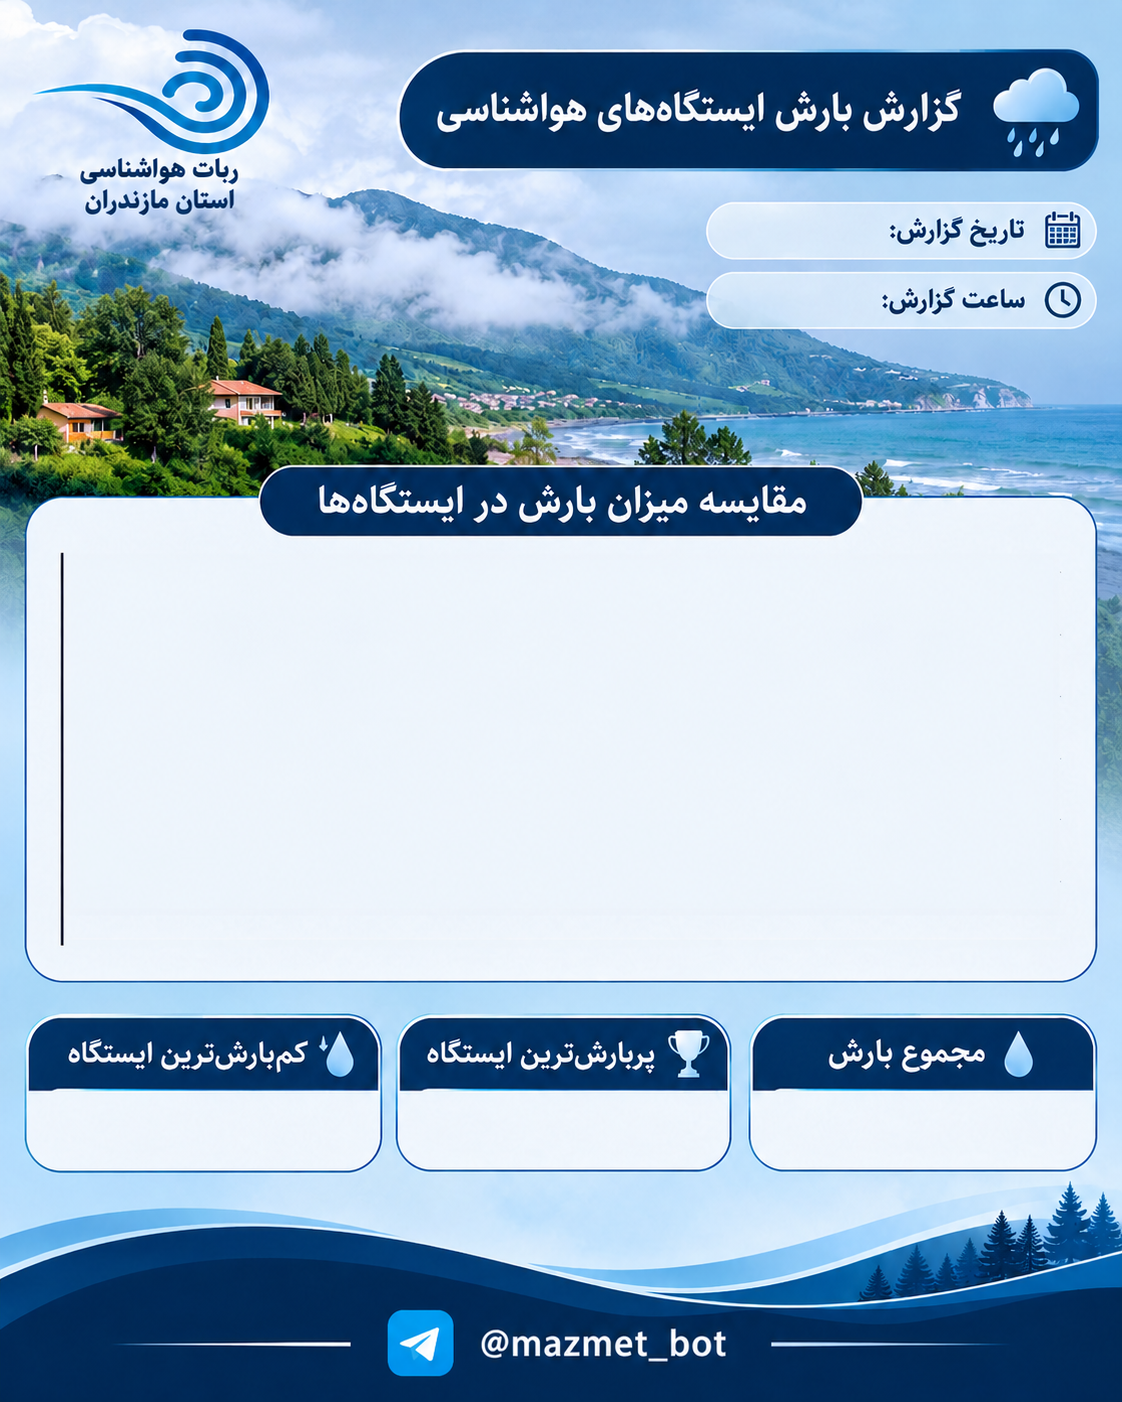
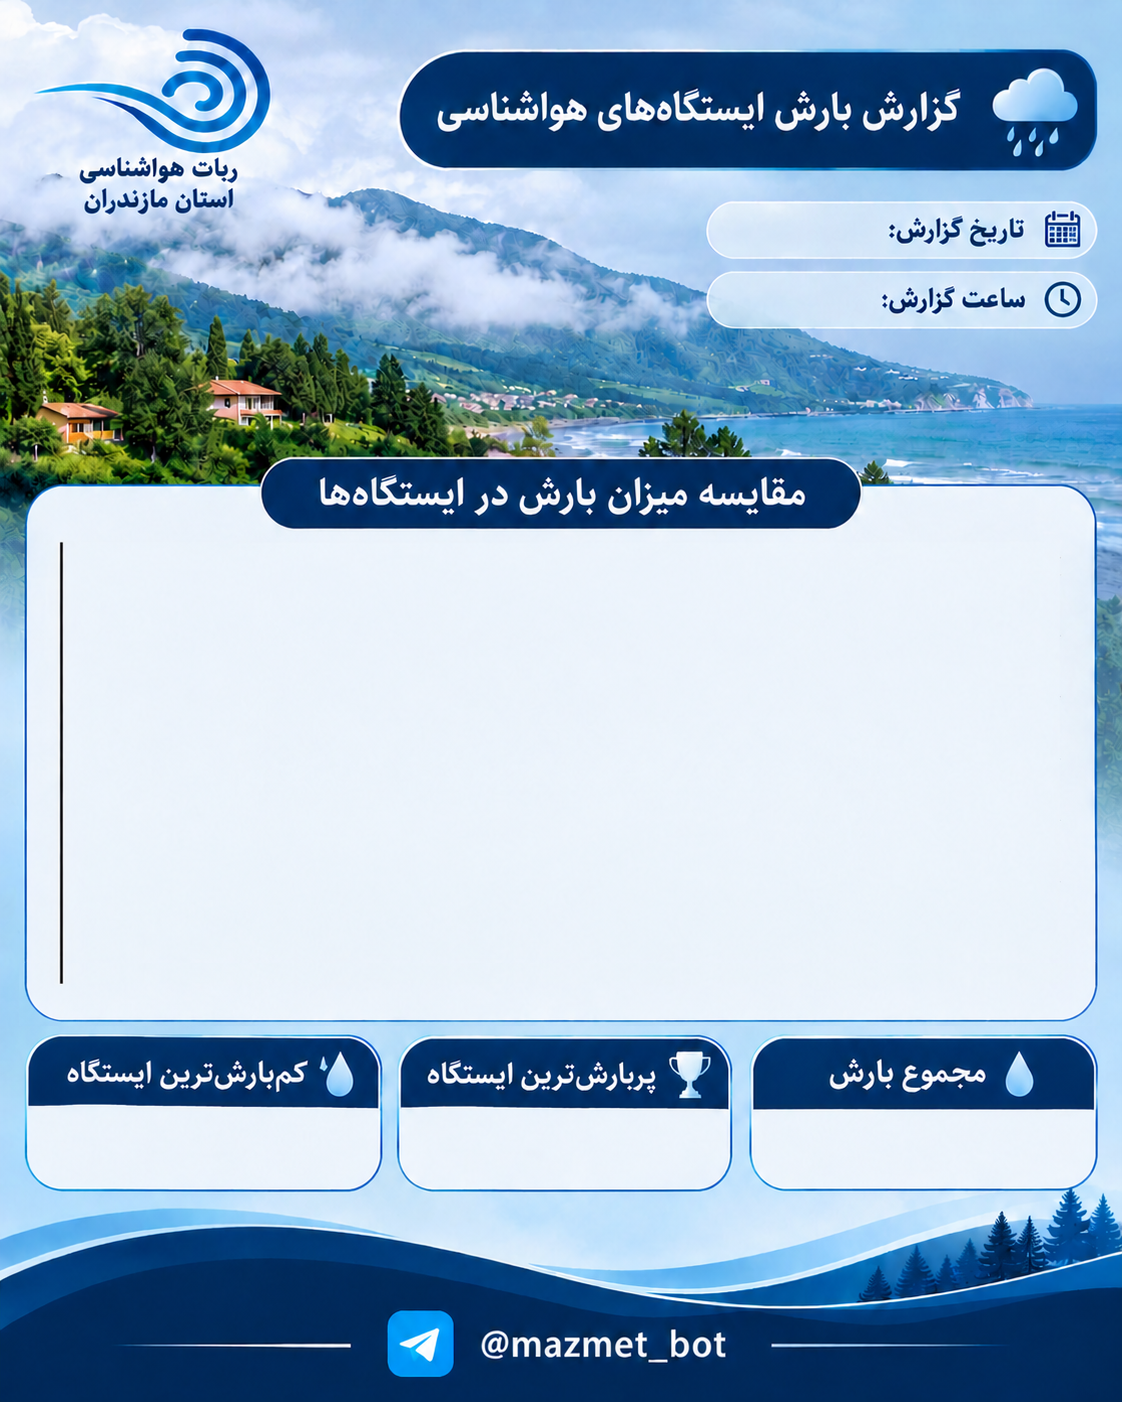
qweqw

diff --git a/rain.py b/rain.py
@@ -4,8 +4,7 @@ import math
 from PIL import Image, ImageDraw, ImageFont
 import arabic_reshaper
 from bidi.algorithm import get_display
-import datetime
-from datetime import timedelta
+import jdatetime
 
 BASE_DIR = os.path.dirname(os.path.abspath(__file__))
 
@@ -26,14 +25,23 @@ WHITE = "#FFFFFF"
 # 2. اطلاعات گزارش
 # ==================================================
 def do_rain(stations):
-    d = datetime.datetime.now()
-    d += timedelta(hours=3, minutes=30)
-    d = d.strftime("%H:%M")
-    date = f"{d.year}/{d.month}/{d.day}"
-    time = f"{d.hour}:{d.minute}"
+    # ==================================================
+    # 1. تنظیمات اولیه
+    # ==================================================
 
-    # این لیست را میتوانی مستقیماً از دیتابیس یا API پر کنی.
+    BASE_DIR = os.path.dirname(os.path.abspath(__file__))
 
+    TEMPLATE_PATH = os.path.join(BASE_DIR, "template.png")
+    FONT_PATH = os.path.join(BASE_DIR, "Vazirmatn-RD-Bold.ttf")
+    OUTPUT_PATH = os.path.join(BASE_DIR, "report.png")
+
+    MAX_STATIONS = 25
+
+    # رنگها
+    BLUE = "#0876B9"
+    DARK_BLUE = "#123653"
+    GRID_COLOR = "#B7C9DA"
+    WHITE = "#FFFFFF"
 
     # ==================================================
     # 3. بررسی دادهها
@@ -130,9 +138,14 @@ def do_rain(stations):
     # 6. درج تاریخ و ساعت
     # ==================================================
 
+    now = jdatetime.datetime.now()
+
+    date = fa_num(now.strftime("%Y/%m/%d"))
+    time = fa_num(now.strftime("%H:%M"))
+
     draw_centered_text(
         draw,
-        (800, 231),
+        (790, 231),
         fa(date),
         small_font,
         DARK_BLUE
@@ -194,22 +207,22 @@ def do_rain(stations):
     # تعیین اندازه فونت بر اساس تعداد ایستگاهها
     if count <= 6:
 
-        station_font = load_font(22)
+        station_font = load_font(21)
         value_font = load_font(23)
 
     elif count <= 12:
 
-        station_font = load_font(19)
+        station_font = load_font(17)
         value_font = load_font(18)
 
     elif count <= 18:
 
-        station_font = load_font(16)
+        station_font = load_font(14)
         value_font = load_font(15)
 
     else:
 
-        station_font = load_font(14)
+        station_font = load_font(12)
         value_font = load_font(12)
 
 
@@ -373,7 +386,7 @@ def do_rain(stations):
 
     draw_centered_text(
         draw,
-        (200, 1110),
+        (200, 1135),
         fa(driest["name"]),
         load_font(27),
         DARK_BLUE
@@ -381,7 +394,7 @@ def do_rain(stations):
 
     draw_centered_text(
         draw,
-        (200, 1145),
+        (200, 1170),
         f"{fa_num(driest['rain'])} mm",
         small_font,
         BLUE
@@ -394,7 +407,7 @@ def do_rain(stations):
 
     draw_centered_text(
         draw,
-        (555, 1110),
+        (555, 1135),
         fa(wettest["name"]),
         load_font(27),
         DARK_BLUE
@@ -402,7 +415,7 @@ def do_rain(stations):
 
     draw_centered_text(
         draw,
-        (555, 1145),
+        (555, 1170),
         f"{fa_num(wettest['rain'])} mm",
         small_font,
         BLUE
@@ -415,7 +428,7 @@ def do_rain(stations):
 
     draw_centered_text(
         draw,
-        (900, 1120),
+        (925, 1145),
         f"{fa_num(f'{total_rain:.1f}')} mm",
         title_font,
         BLUE
@@ -432,3 +445,4 @@ def do_rain(stations):
         format="PNG",
         optimize=True
     )
+

diff --git a/main.py b/main.py
@@ -288,7 +288,7 @@ async def webhook(request: Request):
                         ]
                     }
                 })
-            case "rain":
+            case "rain_chart":
                 data = await get_data()
                 data.sort(key=lambda x:x["rain_24"], reverse=True)
 
@@ -304,12 +304,11 @@ async def webhook(request: Request):
                 async with httpx.AsyncClient() as client:
                     response = await client.post(
                         url,
-                        data={"chat_id": callback.chat_id},
+                        data={"chat_id": callback.chat_id, "reply_to_message_id": callback.message_id},
                         files={
                             "photo": ("report.png", buffer, "image/png")
                         }
                     )
-
             case "back_2":
                 await edit_message(data={
                     "chat_id": callback.chat_id,
@@ -412,7 +411,10 @@ async def webhook(request: Request):
                     "inline_keyboard": 
                     [
                         [
-                           {"text": "آمار کل", "callback_data": "rain", "style": "success"}   
+                           {"text": "آمار کل", "callback_data": "rain_stats", "style": "success"}   
+                        ],
+                        [
+                           {"text": "نمودار مقایسه بارش", "callback_data": "rain_chart", "style": "success"}   
                         ],
                         [
                             {"text": "بارش 24 ساعته", "callback_data": "24_rain", "style": "success"},
